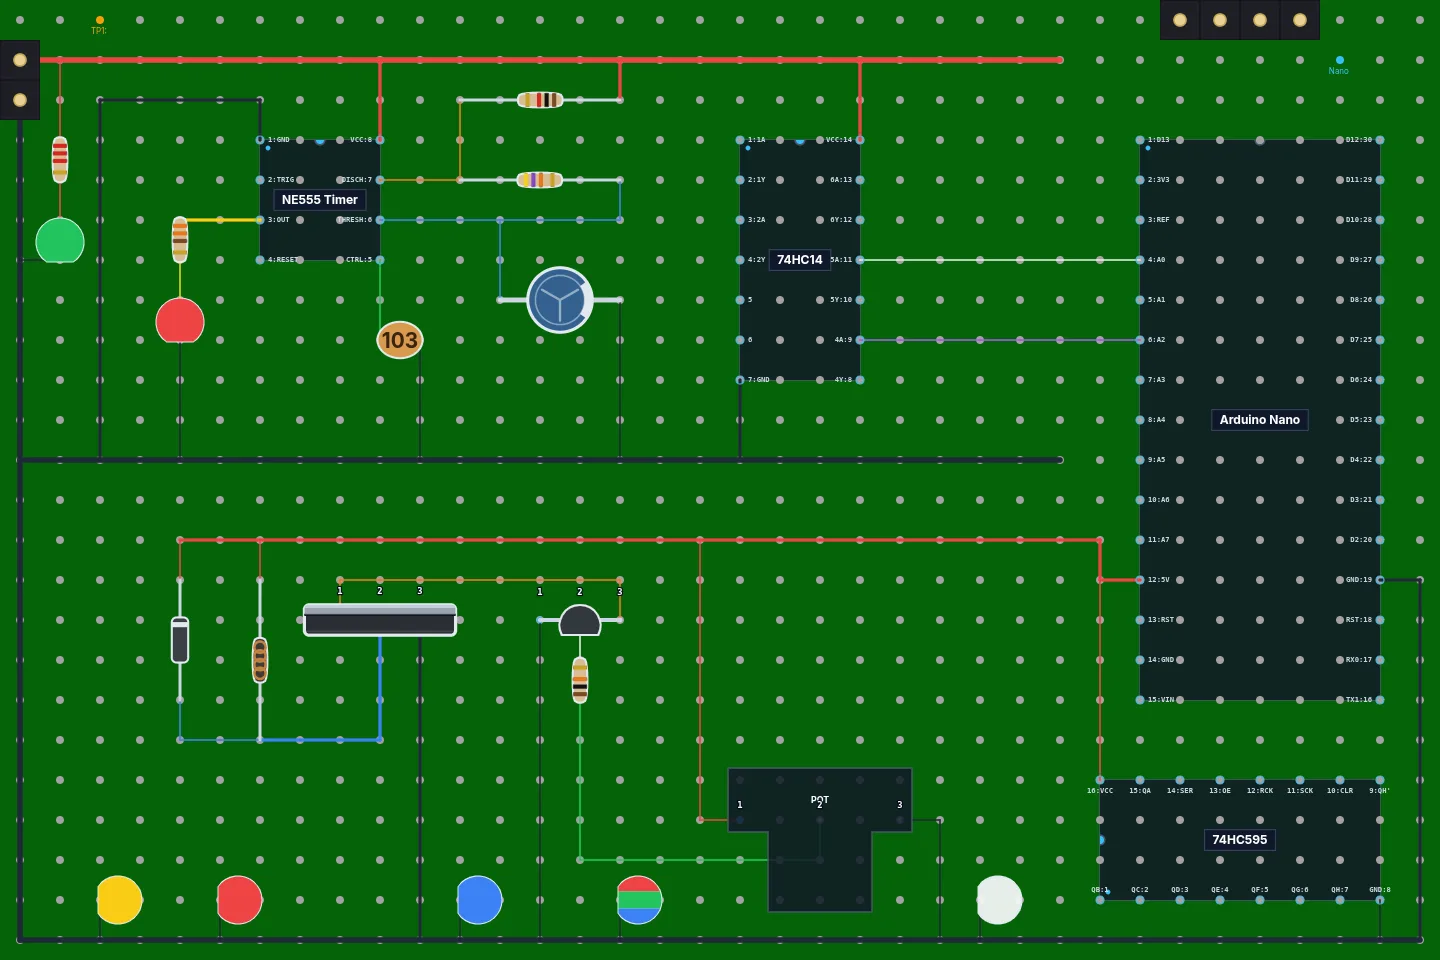
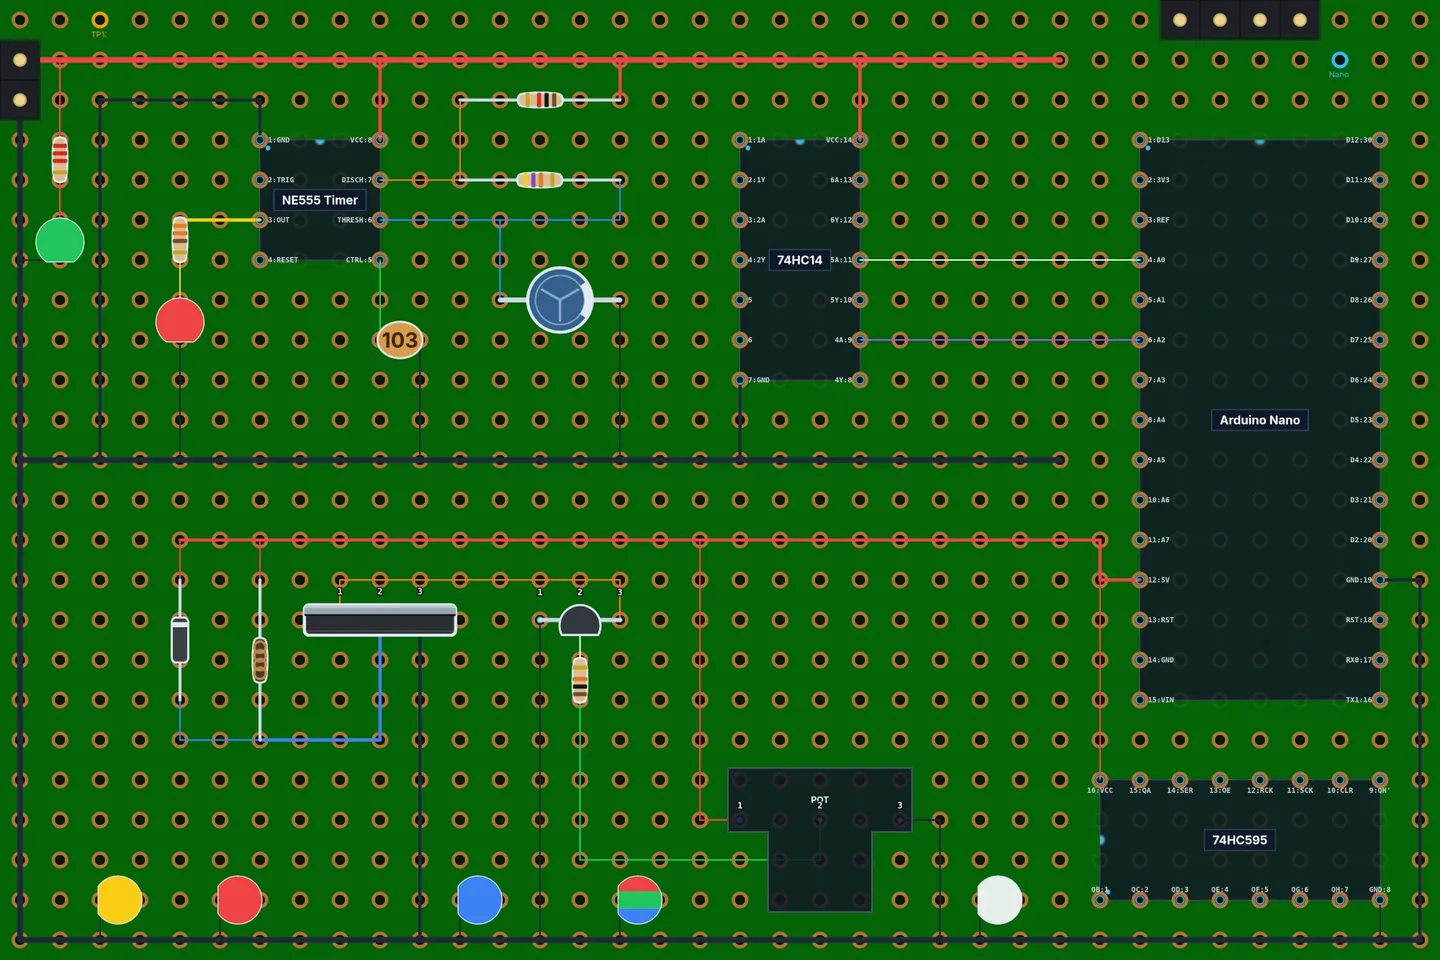
fix: improve landing page

Changed region(s): [[0.0, 0.0, 1.0, 1.0], [0.9688, 0.8438, 1.0, 0.9062], [0.0, 0.2188, 0.0312, 0.2812]]

diff --git a/index.html b/index.html
@@ -4,7 +4,7 @@
     <meta charset="UTF-8" />
     <meta name="viewport" content="width=device-width, initial-scale=1.0" />
     <title>Perfboard Designer – Free Online Perfboard Layout Tool</title>
-    <meta name="description" content="Plan perfboard circuits in your browser: place resistors, ICs, LEDs and wires on a hole grid, then save or export your layout. Free and open source." />
+    <meta name="description" content="Plan perfboard circuits in your browser: place resistors, ICs, LEDs and wires on a hole grid, preview it in 3D, then save or export your layout. Free and open source." />
     <link rel="canonical" href="https://perfboarddesigner.com/" />
     <meta name="theme-color" content="#0b1220" />
     <link rel="icon" type="image/png" href="favicon.png" />
@@ -32,7 +32,7 @@
       "@type": "WebApplication",
       "name": "Perfboard Designer",
       "url": "https://perfboarddesigner.com/",
-      "description": "A free, open-source browser tool for planning perfboard (protoboard) circuit layouts: place components and wires on a hole grid, then save, load or export the design.",
+      "description": "A free, open-source browser tool for planning perfboard (protoboard) circuit layouts: place components and wires on a hole grid, preview the board in 3D, then save, load or export the design.",
       "applicationCategory": "DesignApplication",
       "operatingSystem": "Any (web browser)",
       "browserRequirements": "Requires a modern web browser with JavaScript enabled",
@@ -61,6 +61,7 @@
     </a>
     <nav class="site-nav" aria-label="Main">
       <a href="#features">Features</a>
+      <a href="#3d-view">3D view</a>
       <a href="#how-it-works">How it works</a>
       <a href="#faq">FAQ</a>
       <a href="contributors/">Contributors</a>
@@ -85,11 +86,18 @@
         </div>
         <p class="hero-note">Runs in your browser. Nothing to install, nothing uploaded.</p>
       </div>
-      <figure class="hero-shot">
-        <div class="window-bar" aria-hidden="true"><span></span><span></span><span></span></div>
-        <img src="images/hero-board.webp" width="1440" height="960" fetchpriority="high"
-             alt="A perfboard layout in Perfboard Designer: an NE555 blinker with resistors, capacitors and LEDs, a 74HC14, an Arduino Nano, a MOSFET driver and colored jumper wires" />
-      </figure>
+      <div class="hero-media">
+        <figure class="hero-shot">
+          <div class="window-bar" aria-hidden="true"><span></span><span></span><span></span><span class="shot-label">3D view</span></div>
+          <img src="images/hero-3d.webp" width="1440" height="792" fetchpriority="high"
+               alt="A perfboard rendered in Perfboard Designer's 3D view: an Arduino Nano, NE555 timer, 74HC14, 74HC595, IRLZ44N MOSFET, potentiometer, LEDs, resistors and colored jumper wires" />
+        </figure>
+        <figure class="hero-shot hero-inset">
+          <div class="window-bar" aria-hidden="true"><span></span><span></span><span></span><span class="shot-label">Layout</span></div>
+          <img src="images/hero-board.webp" width="1440" height="960"
+               alt="The same board as a 2D layout in the Perfboard Designer editor, with components and wires on the hole grid" />
+        </figure>
+      </div>
     </section>
 
     <section id="features" class="section">
@@ -127,6 +135,28 @@
           <p>Undo and redo, keyboard shortcuts, notes on any hole, and part values shown right on the board.</p>
         </article>
       </div>
+    </section>
+
+    <section id="3d-view" class="section showcase">
+      <div class="showcase-text">
+        <p class="eyebrow">New</p>
+        <h2>See your board in 3D</h2>
+        <p>
+          One click on <strong>3D View</strong> turns your layout into a 3D model of the finished
+          board: resistors with their color bands, ICs with labeled pins, LEDs, capacitors,
+          transistors, pots, headers and every jumper wire, sitting on a perfboard sized to match yours.
+        </p>
+        <ul class="showcase-list">
+          <li>Drag to orbit and scroll to zoom, or jump to an angled, top or bottom view.</li>
+          <li>Check the solder side to see where wires and leads meet the copper.</li>
+          <li>Save a screenshot of the render to share or keep next to your build.</li>
+        </ul>
+      </div>
+      <figure class="hero-shot">
+        <div class="window-bar" aria-hidden="true"><span></span><span></span><span></span></div>
+        <img src="images/board-3d-detail.webp" width="1000" height="660" loading="lazy" decoding="async"
+             alt="Close-up of the 3D view: a 10kΩ potentiometer, a 74HC595 with labeled pins, an Arduino Nano, a 74HC14, a BC547 transistor, LEDs and jumper wires" />
+      </figure>
     </section>
 
     <section id="how-it-works" class="section">

diff --git a/src/landing/landing.css b/src/landing/landing.css
@@ -230,7 +230,7 @@ h1, h2, h3 {
   border-bottom: 1px solid var(--border);
 }
 
-.window-bar span {
+.window-bar span:not(.shot-label) {
   width: 10px;
   height: 10px;
   border-radius: 50%;
@@ -241,6 +241,34 @@ h1, h2, h3 {
   display: block;
   width: 100%;
   height: auto;
+}
+
+/* Hero: the 3D render up front, with the 2D editor layout overlapping its corner. */
+.hero-media {
+  position: relative;
+  padding-bottom: 5rem;
+}
+
+.hero-inset {
+  position: absolute;
+  bottom: 0;
+  left: -1.75rem;
+  width: 44%;
+  box-shadow: 0 18px 40px rgba(0, 0, 0, 0.6);
+}
+
+.hero-inset .window-bar {
+  padding: 0.4rem 0.6rem;
+}
+
+.shot-label {
+  margin-left: auto;
+  color: var(--text-faint);
+  font-size: 0.7rem;
+  font-weight: 600;
+  line-height: 10px;
+  letter-spacing: 0.04em;
+  text-transform: uppercase;
 }
 
 /* --- Sections --- */
@@ -299,6 +327,39 @@ h1, h2, h3 {
   margin: 0;
   color: var(--text-muted);
   font-size: 0.95rem;
+}
+
+/* --- 3D view showcase --- */
+
+.showcase {
+  display: grid;
+  grid-template-columns: minmax(0, 0.9fr) minmax(0, 1.1fr);
+  align-items: center;
+  gap: 3rem;
+  max-width: 1200px;
+}
+
+.showcase h2 {
+  margin-bottom: 1rem;
+  text-align: left;
+}
+
+.showcase-text p {
+  color: var(--text-muted);
+}
+
+.showcase-text strong {
+  color: var(--text);
+}
+
+.showcase-list {
+  margin: 1.25rem 0 0;
+  padding-left: 1.2rem;
+  color: var(--text-muted);
+}
+
+.showcase-list li + li {
+  margin-top: 0.4rem;
 }
 
 .steps {
@@ -455,6 +516,15 @@ h1, h2, h3 {
   .hero {
     grid-template-columns: minmax(0, 1fr);
     padding-top: 3rem;
+  }
+
+  .hero-inset {
+    left: 0.75rem;
+  }
+
+  .showcase {
+    grid-template-columns: minmax(0, 1fr);
+    gap: 2rem;
   }
 
   .site-nav {
